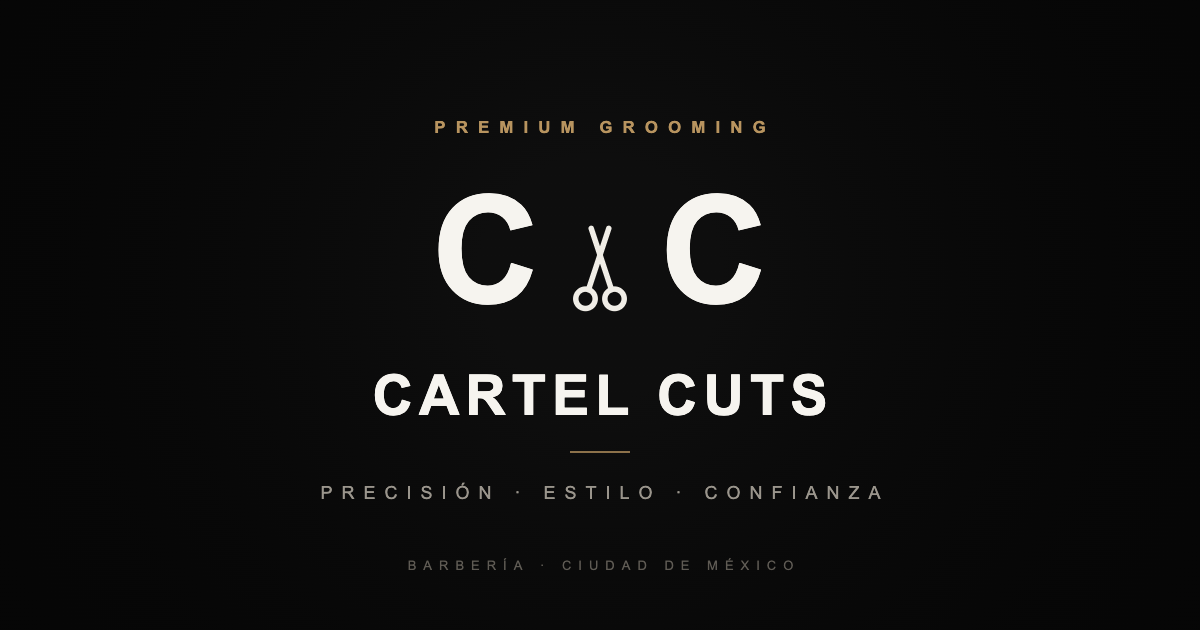
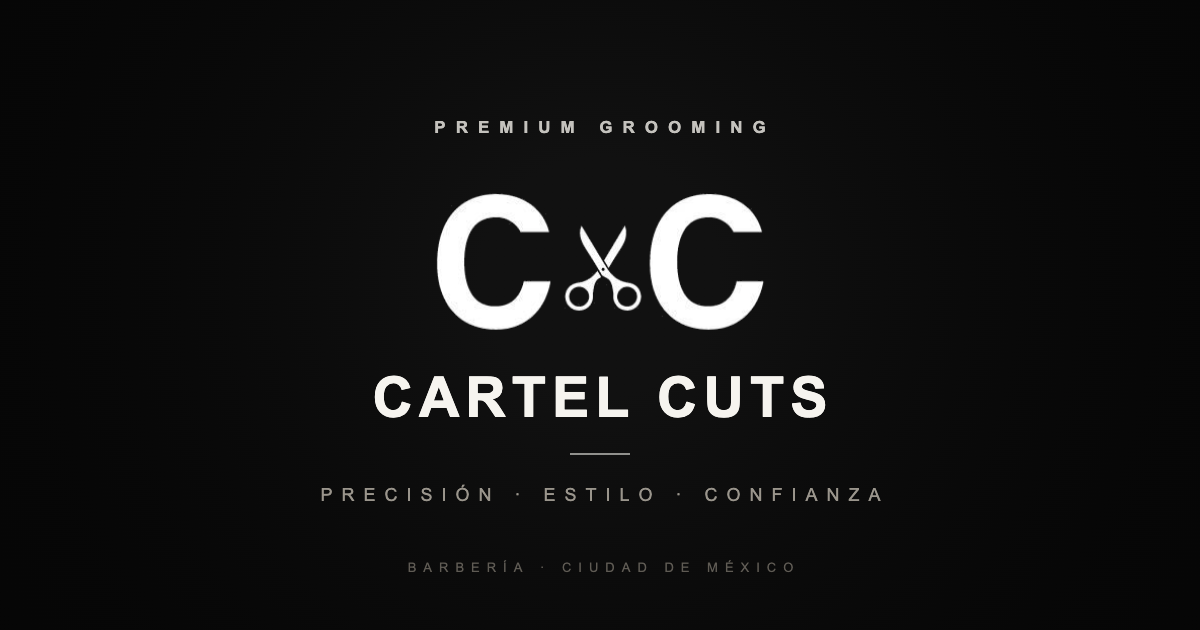
Fix og:image URL + update root og-image.png to new version

diff --git a/index-regular.html b/index-regular.html
@@ -10,7 +10,7 @@
   <meta property="og:type" content="website">
   <meta property="og:title" content="Barbería Cartel Cuts — San Rafael, CDMX">
   <meta property="og:description" content="Cómo no somos los únicos, decidimos ser los mejores. Reserva tu cita en línea — sin esperar.">
-  <meta property="og:image" content="https://cartel-cuts-mx.vercel.app/og-image.png">
+  <meta property="og:image" content="https://cartel-cuts-mx.vercel.app/assets/og-image.png">
   <meta name="twitter:card" content="summary_large_image">
   <style>
     :root {